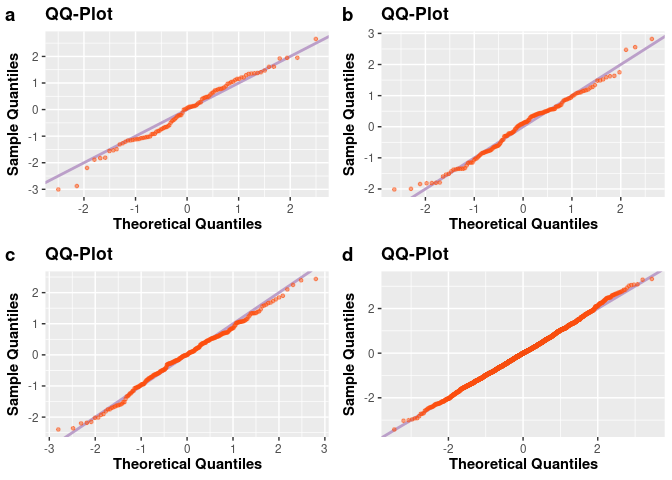
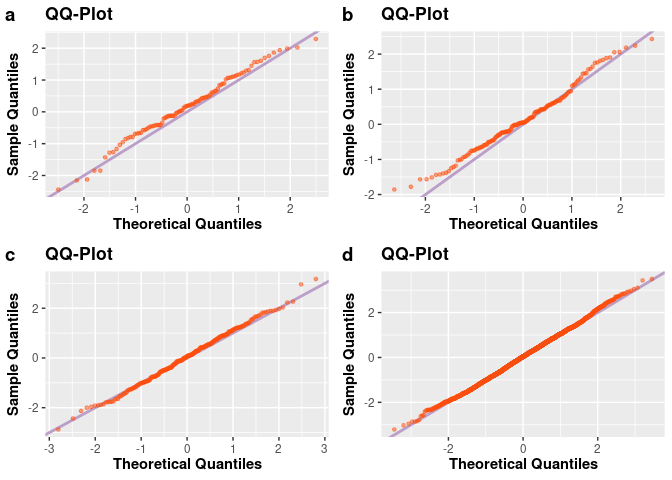
Version 0.1.2

diff --git a/README.md b/README.md
@@ -135,15 +135,34 @@ simulation <- function(n){
   )
 }
 
-a <- plot(simulation(25L))
-b <- plot(simulation(250L))
-c <- plot(simulation(2500L))
-d <- plot(simulation(25000L))
+a <- simulation(25L)
+b <- simulation(250L)
+c <- simulation(2500L)
+d <- simulation(25000L)
 
-plot_grid(a, b, c, d, nrow = 2L, labels = c("a", "b", "c", "d"))
+# Plots
+p1 <- plot(a)
+p2 <- plot(b)
+p3 <- plot(c)
+p4 <- plot(d)
+
+plot_grid(p1, p2, p3, p4, nrow = 2L, labels = c("a", "b", "c", "d"))
 ```
 
 <img src="man/figures/README-unnamed-chunk-2-1.png" width="100%" />
+
+``` r
+
+# QQ-Plots
+q1 <- qqplot(a)
+q2 <- qqplot(b)
+q3 <- qqplot(c)
+q4 <- qqplot(d)
+
+plot_grid(q1, q2, q3, q4, nrow = 2L, labels = c("a", "b", "c", "d"))
+```
+
+<img src="man/figures/README-unnamed-chunk-2-2.png" width="100%" />
 
 ## Generating continuous observations
 
@@ -306,7 +325,7 @@ case_1 <- accept_reject(
   xlim = c(0, 10)
 )
 toc()
-#> 0.01 sec elapsed
+#> 0.005 sec elapsed
 
 # Specifying the base probability density function
 tic()
@@ -322,7 +341,7 @@ case_2 <- accept_reject(
   c = 1.2
 )
 toc()
-#> 0.006 sec elapsed
+#> 0.004 sec elapsed
 
 # Visualizing the results
 p1 <- plot(case_1)
